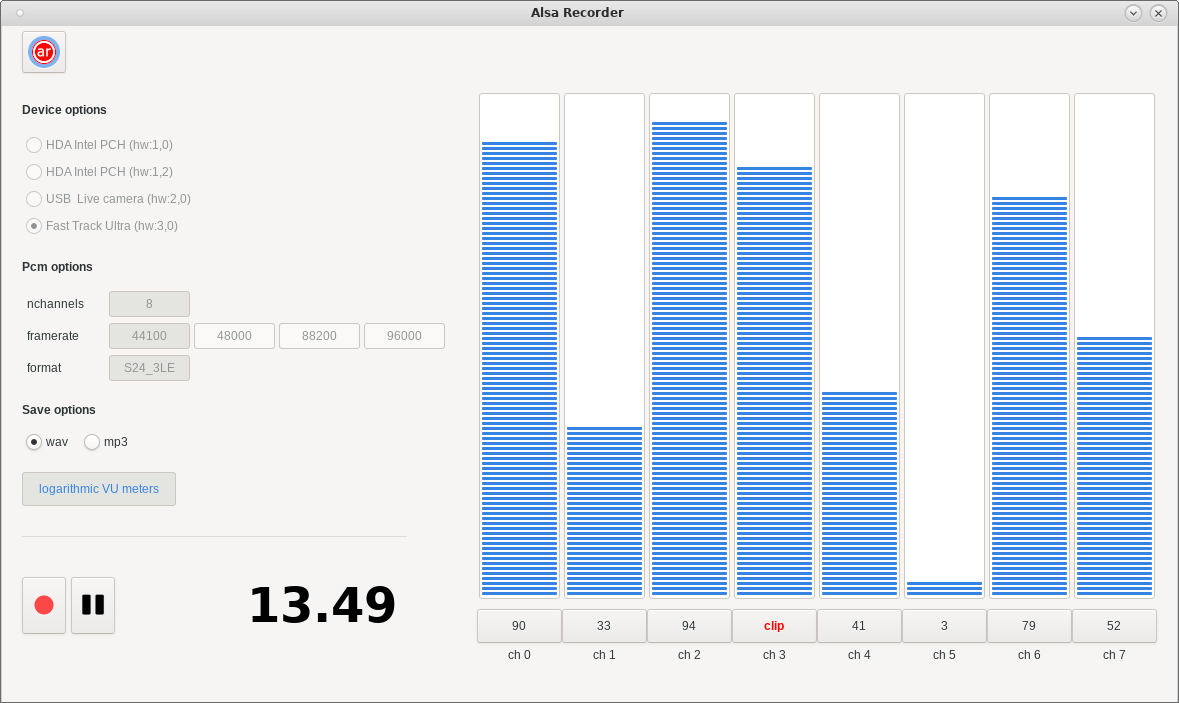
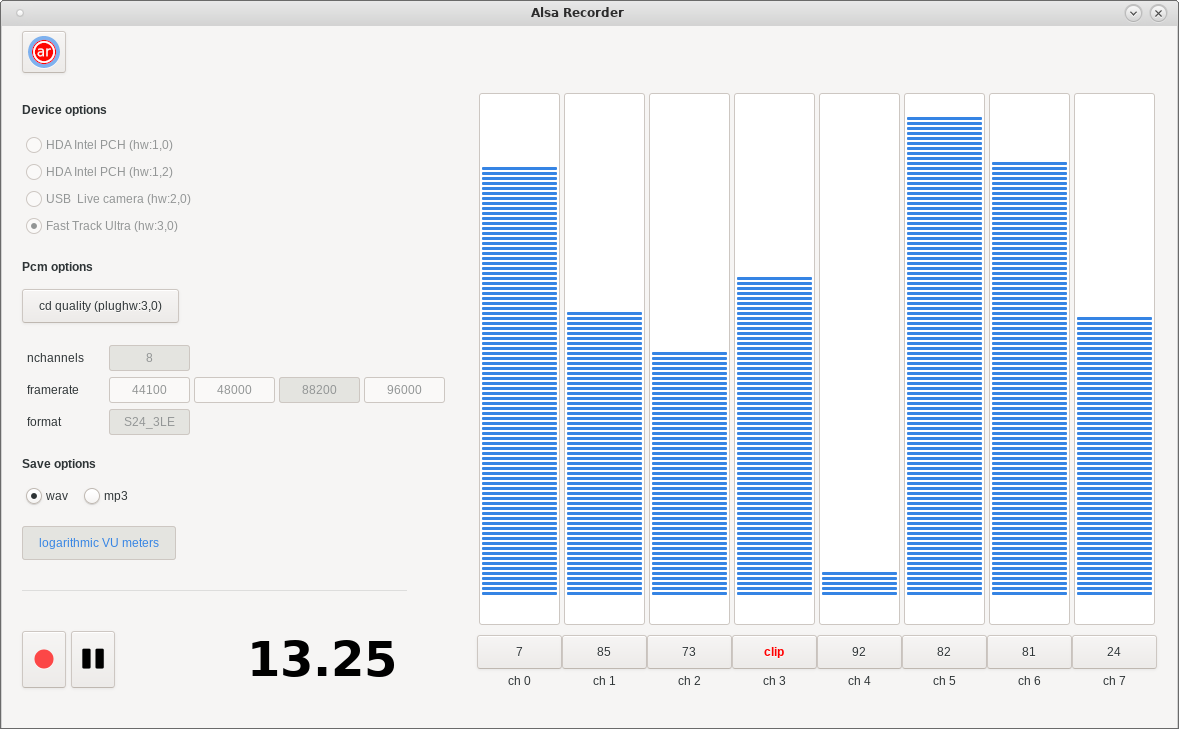
fixed bugs: max values not allocated, labels, other

diff --git a/alsawrapper.c b/alsawrapper.c
@@ -199,7 +199,7 @@ int aw_get_pcm_devices (AwPcm aw_pcms[], uint8_t* p_aw_pcms_length)
 
                     aw_pcms[*p_aw_pcms_length].has_plughw = 0;
                 }
-                
+
                 if (mode == SND_PCM_STREAM_PLAYBACK)
                     break;
                 else
@@ -228,6 +228,7 @@ int aw_print_pcms (AwPcm aw_pcms[], uint8_t aw_pcms_length)
         printf("\n    card name: %s", (*(aw_pcms + i)).cardname);
         printf("\n    card long name: %s", (*(aw_pcms + i)).cardlongname);
         printf("\n    has plughw: %s\n", (*(aw_pcms + i)).has_plughw ? "true" : "false");
+
         if ((*(aw_pcms + i)).mode == SND_PCM_STREAM_PLAYBACK) 
             printf("    mode:  playback");
         else
@@ -448,13 +449,21 @@ int aw_build_compute_struct (AwPcmParams hw_params, AwComputeStruct* p_ss)
     return 0;
 }
 
+int aw_free_compute_struct (AwComputeStruct* p_ss) {
+
+    free (p_ss->avgs_queue);
+    free (p_ss->avg_power);
+    free (p_ss->avg_log);
+    free (p_ss->max);
+    free (p_ss->clip);
+}
+
 int aw_compute (void* p_buffer, AwPcmParams* p_params, AwComputeStruct* p_ss)
 {
     int frame_i;
     int channel_i;
     int32_t value;
     float nvalue;
-    int32_t max[2];
     double sum_power;
     float in_avg;
     float out_avg;
@@ -463,15 +472,13 @@ int aw_compute (void* p_buffer, AwPcmParams* p_params, AwComputeStruct* p_ss)
     for (channel_i = 0; channel_i < (*p_params).nchannels; channel_i++)
     {        
         sum_power = 0;
-        max[channel_i] = 0;
         p_sample = ((char*) p_buffer);
         p_sample += (*p_params).samplesize * channel_i;
-
+        
         for (frame_i = 0; frame_i < (*p_params).buffer_size; frame_i++)
         {   
             value = (*(*p_params).p_parser) (p_sample);   
             p_sample += (*p_params).framesize; 
-            if (value > max[channel_i]) max[channel_i] = value;
             nvalue = abs (value) * 100.0 / (*p_params).max;  
 
             if (nvalue >= 100) 
@@ -485,9 +492,9 @@ int aw_compute (void* p_buffer, AwPcmParams* p_params, AwComputeStruct* p_ss)
         }
         in_avg = sqrt ((sum_power / (*p_params).buffer_size)) / (*p_ss).avgs_queue_length;        
         out_avg = aw_queue_cycle (p_ss, channel_i, in_avg);
-
+        
         (*p_ss).avg_power[channel_i] += (in_avg - out_avg);
-
+        
         if ((*p_ss).avg_power[channel_i] > 1)
         {
             (*p_ss).avg_log[channel_i] = 20 * log10 ((*p_ss).avg_power[channel_i]) / 40 * 100;
@@ -506,13 +513,13 @@ int aw_cycle (snd_pcm_t* p_pcm, AwPcmParams* p_hw_params, FILE** p_p_f, AwComput
     int err;    
     void* p_buffer = malloc (snd_pcm_frames_to_bytes (p_pcm, (*p_hw_params).buffer_size));
     snd_pcm_sframes_t nframes_or_err;
-    
+
     i = 0;
     
     while (*p_state == AW_RECORDING || *p_state == AW_MONITORING || *p_state == AW_PAUSED)
     {
         if ((nframes_or_err = snd_pcm_readi (p_pcm, p_buffer, (*p_hw_params).buffer_size)) != (*p_hw_params).buffer_size)        
-            if (snd_pcm_recover(p_pcm, nframes_or_err, 0) < 0)
+            if (snd_pcm_recover (p_pcm, nframes_or_err, 0) < 0)
                 return aw_handle_err (snd_strerror (nframes_or_err));
                 
         if (aw_compute (p_buffer, p_hw_params, p_ss) < 0)
@@ -525,6 +532,7 @@ int aw_cycle (snd_pcm_t* p_pcm, AwPcmParams* p_hw_params, FILE** p_p_f, AwComput
         }        
         i++;
     }
+    free (p_buffer);
     *p_state = AW_STOPPED;
     
     return 0;

diff --git a/alsarecorder.c b/alsarecorder.c
@@ -589,14 +589,14 @@ int arPcmStart ()
         
     if ((err = snd_pcm_state (p_pcm)) != SND_PCM_STATE_PREPARED)
         return aw_handle_err( snd_strerror (err));
-        
+    
     if ((err = snd_pcm_start (p_pcm)) < 0)
         return aw_handle_err (snd_strerror (err));
-        
+    
     state = AW_MONITORING;
             
     /* prepare stats struct */
-    
+
     aw_build_compute_struct (aw_pcm_params, &ss);   
     
     /* start thread */
@@ -611,7 +611,7 @@ int arPcmStart ()
     
     sleep (0.5);
     
-    g_timeout_add (UPDATE_TIMER_INTERVAL, (GSourceFunc) arUpdateStatsAndVUMeters, NULL);
+    g_timeout_add (UPDATE_TIMER_INTERVAL, (GSourceFunc) arUpdateStatsAndVUMeters, NULL);    
     
     return 0;
 }
@@ -620,8 +620,12 @@ int arPcmStop ()
 {      
     state = AW_STOPPING;
 
-    while (state != AW_STOPPED) sleep (0.1);
+    while (state != AW_STOPPED) sleep (0.1);    
     
+    /* free stats struct */
+
+    aw_free_compute_struct (&ss);       
+
     if ((err = snd_pcm_close (p_pcm)) < 0)
         return aw_handle_err (snd_strerror(err));
 
@@ -752,11 +756,11 @@ int arSwitchDefaultPcm (GtkToggleButton* button)
         aw_pcm_params.nchannels = _nchannels;
         aw_pcm_params.framerate = _framerate;
         aw_pcm_params.format = _format;
-
+        
         arDrawVUMeters ();   
         
         if (arPcmStart () != 0)
-            arQuit_ ();                 
+            arQuit_ ();              
     }    
 }
 
@@ -880,7 +884,10 @@ int arUpdatePcmOptionsPanel ()
     }
     gtk_widget_show_all (GTK_WIDGET (GUI->pcmFormatOptions));
     
-    /* plughw */  
+    /* plughw */
+
+    snprintf (label, sizeof label, "cd quality (plug%s)", (*p_aw_pcm).name);   
+    gtk_button_set_label (GTK_BUTTON (GUI->pcmPlugHwButton), label);
     
     if (GUI->pcmPlugHwButtonId > 0){
         g_signal_handler_disconnect (GTK_WIDGET (GUI->pcmPlugHwButton), GUI->pcmPlugHwButtonId);}
@@ -924,7 +931,7 @@ int arChangePcmDevice (GtkRadioButton* button)
     int i;
     
     if (state == AW_RECORDING || state == AW_PAUSED) return 0;
-
+    
     if (gtk_toggle_button_get_active (GTK_TOGGLE_BUTTON (button)))
     {
         for (i = 0; i < aw_pcms_length; i++)

diff --git a/alsawrapper.h b/alsawrapper.h
@@ -231,6 +231,8 @@ typedef struct AwComputeStruct {
 
 int aw_build_compute_struct (AwPcmParams hw_params, AwComputeStruct* p_ss);
 
+int aw_free_compute_struct (AwComputeStruct* p_ss);
+
 float aw_queue_cycle (AwComputeStruct* p_ss, int channel_i, float entry);
 
 int aw_compute (void* p_buffer, AwPcmParams* p_params, AwComputeStruct* p_ss);
